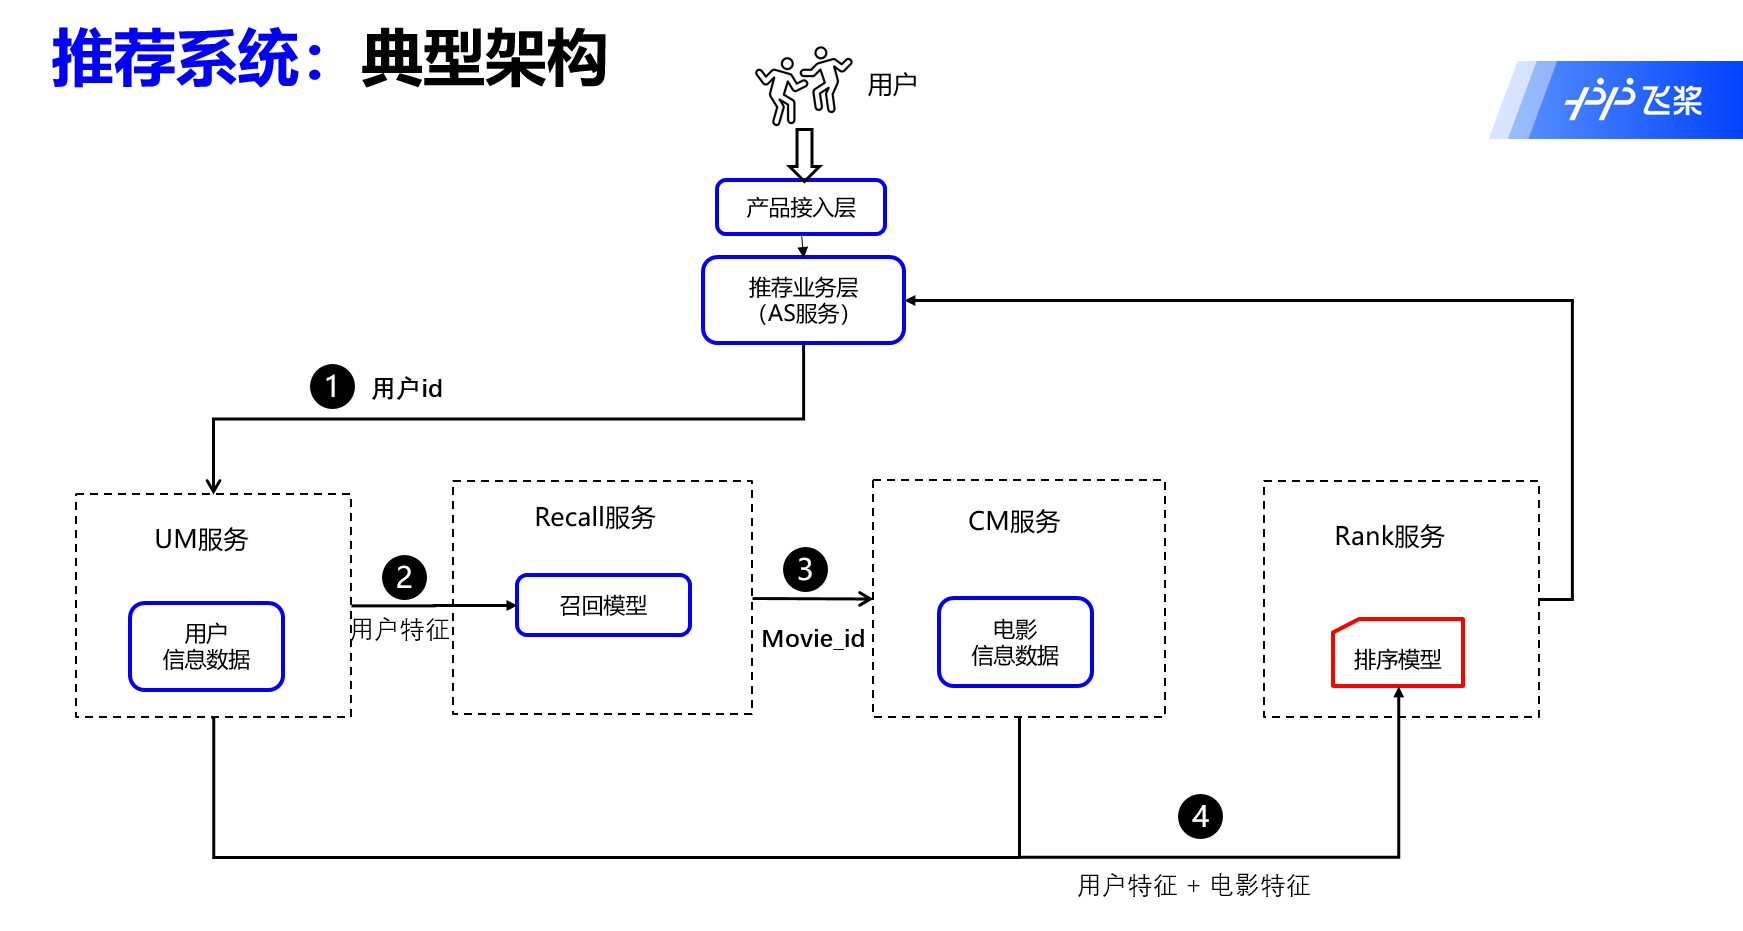
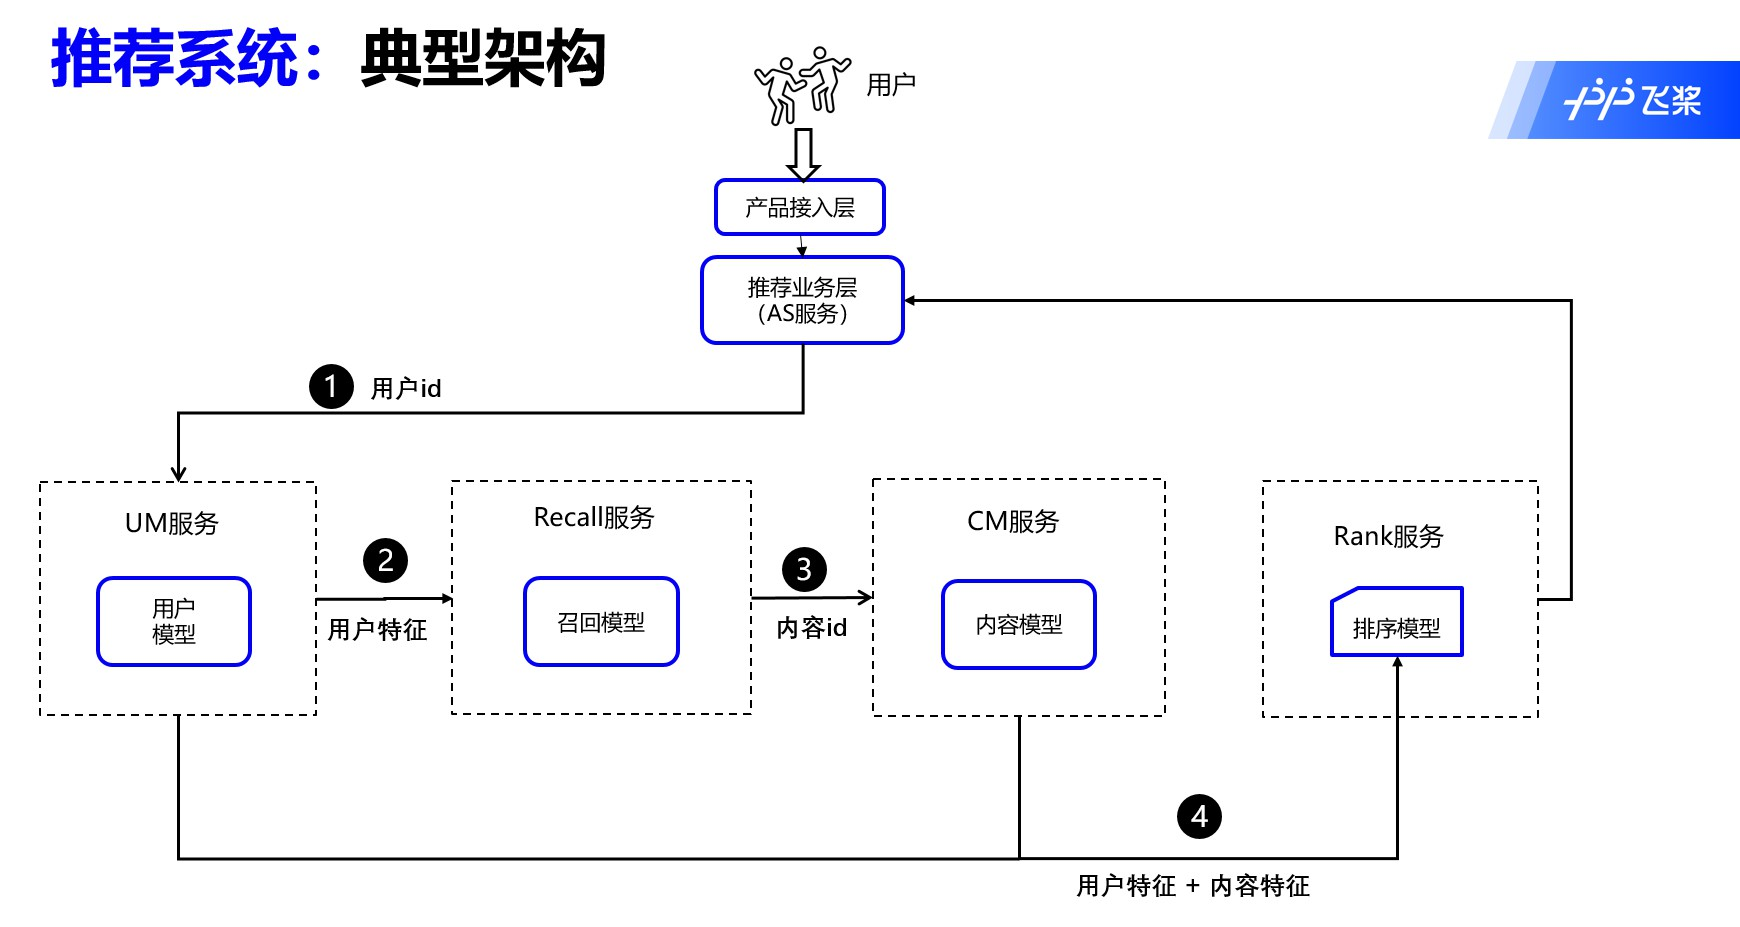
demo readme

diff --git a/tools/recserving/movie_recommender/reademe.md b/tools/recserving/movie_recommender/reademe.md
@@ -1,7 +1,7 @@
-# Demo演示
+# 推荐服务
 
 ## 简介
-本Demo基于paddlerec/models/demo/movie_recommand项目，以及AI Studio中的公开项目[《十分钟！全流程！从零搭建推荐系统》](https://aistudio.baidu.com/aistudio/projectdetail/559336)，[《PaddleRec公开教程》](https://aistudio.baidu.com/aistudio/projectdetail/1268461)。展示了使用PaddleRec搭建的一个电影推荐系统的全部流程和效果。使用者可以通过我们构建的五种服务（用户模型服务，内容模型服务，召回服务，排序服务，还有应用服务）直观的体验到一个完整的推荐系统的运作方式。我们欢迎大家直接点击上面的链接前来AI Studio上体验。
+本工具用于构建一个完整的推荐服务。以电影推荐系统为例，展示了使用PaddleRec搭建一个电影推荐系统的全部流程和效果。使用者可以通过我们构建的五种服务（用户模型服务，内容模型服务，召回服务，排序服务，还有应用服务）直观的体验到一个完整的推荐系统的运作方式。我们欢迎大家前往paddlerec/models/demo/movie_recommand项目，以及AI Studio中的公开项目[《十分钟！全流程！从零搭建推荐系统》](https://aistudio.baidu.com/aistudio/projectdetail/559336)，[《PaddleRec公开教程》](https://aistudio.baidu.com/aistudio/projectdetail/1268461)上体验。
 
 ## 目录结构
 以下是本例的简要目录结构及说明： 
@@ -20,13 +20,13 @@
 ├── proto
     ├── __init__.py
     ├── run_codegen.py #将proto转换为python格式
-    ├── as.proto #protobuf信息的数据结构表示
-    ├── cm.proto #protobuf信息的数据结构表示
-    ├── item_info.proto #protobuf信息的数据结构表示
-    ├──rank.proto #protobuf信息的数据结构表示
-    ├──recall.proto #protobuf信息的数据结构表示
-    ├──um.proto #protobuf信息的数据结构表示
-    ├──user_info.proto #protobuf信息的数据结构表示
+    ├── as.proto #应用服务中发出请求获得protobuf信息的数据结构
+    ├── cm.proto #内容模型服务中发出请求获得protobuf信息的数据结构
+    ├── item_info.proto #电影数据的数据结构表示
+    ├──rank.proto #排序服务中发出请求获得protobuf信息的数据结构
+    ├──recall.proto #召回服务中发出请求获得protobuf信息的数据结构
+    ├──um.proto #用户模型服务中发出请求获得protobuf信息的数据结构
+    ├──user_info.proto #用户数据的数据结构表示
 ```
 
 ## 运行环境
@@ -43,16 +43,56 @@ Python 版本：2.7/3.6
 <p>
 
 ### 名词解释
-本demo系统一共启动了5个在线服务，分别是用户模型服务，内容模型服务，召回服务，排序服务，还有应用服务。  
+本工具一共启动了5个在线服务，分别是用户模型服务，内容模型服务，召回服务，排序服务，还有应用服务。  
 **um**: 用户模型服务(User Model)  
 **cm**：内容模型服务(Content Model)  
 **recall**：召回服务  
 **rank**：排序服务  
 **as**：应用服务（application service）  
-用户模型和内容模型分别是数据集当中的users.dat和movies.dat数据，经过解析之后保存在redis当中，用户模型以user_id作为key，内容模型以movie_id作为key。用户模型服务和内容模型服务的逻辑分别是从redis当中按照用户传入的key来寻找对应的value并封装成protobuf结果返回。  
-召回服务目前是用离线把每个用户的召回结果计算好。  
+
+### 业务场景
+以电影推荐系统为例，讲解如何处理数据以及每个服务的实现思路
+1. 电影推荐系统使用的数据：  
+[MovieLens数据集](https://grouplens.org/datasets/movielens/)是一个关于电影评分的数据集，数据来自于IMDB等电影评分网站。该数据集中包含用户对电影的评分信息，用户的人口统计学特征以及电影的描述特征，非常适合用来入门推荐系统。MovieLens数据集包含多个子数据集，为了后面能够快速展示一个完整的训练流程，教程中我们选取了其中一个较小的子数据集[ml-1m](https://grouplens.org/datasets/movielens/1m/)，大小在1M左右。该数据集共包含了6000多位用户对近3900个电影的100多万条评分数据，评分为1～5的整数，其中每个电影的评分数据至少有20条，基本可以满足教学演示的需求。该数据集包含三个数据文件，分别是：
+- users.dat：存储用户属性信息的txt格式文件，格式为“UserID::Gender::Age::Occupation”，其中原始数据中对用户年龄和职业做了离散化处理。      
+    
+| user_id | 性别 | 年龄 | 职业 |      
+| -------- | -------- | -------- | -------- |       
+| 2181 |  男  | 25  | 自由职业 |  
+| 2182 |  女  | 25  | 学生 |          
+| 2183 |  女  | 56  | 教师 |   
+| ... |  ...  | ...  | ... |           
+
+- movies.dat：存储电影属性信息的txt格式文件，格式：“MovieID::Title::Genres”。   
+     
+| movie_id | title | 类别 |      
+| -------- | -------- | -------- |      
+| 260     |Star Wars:Episode IV(1977)| 动作，科幻  |      
+| 1270    | Three Amigos!(1986)| 喜剧  |    
+| 2763    | Thomas Crown Affair,The(1999)| 动作，惊悚 |     
+| 2858    | American Beauty(1999)| 喜剧  |     
+| ...   | ... | ... |    
+     
+- ratings.dat：存储电影评分信息的txt格式文件，格式：“UserID::MovieID::Rating::time”。  
+               
+| user_id | movie_id | 评分 | 评分时间 |   
+| ----- | -------- | -------- | -------- |      
+| 2181   | 2858    | 4分     | 974609869 | 
+| 2181   | 260    | 5分     | 974608048 |     
+| 2181   | 1270    | 5分     | 974666558 |    
+| 2182   | 3481    | 2分     | 974607734 |     
+| 2183   | 2605   | 3分     | 974608443 |       
+| 2183   | 1210    | 4分     | 974607751 |      
+| ...   | ...    | ...     |   ...     |    
+
+2. 用户模型服务和内容模型服务的实现思路  
+用户模型和内容模型分别使用了数据集当中的users.dat和movies.dat数据，我们会首先使用get_data.sh脚本获取数据集，在to_redis.py中将数据经过解析之后保存在redis当中，用户模型以user_id作为key，内容模型以movie_id作为key。用户模型服务和内容模型服务的逻辑分别是从redis当中按照用户传入的key来寻找对应的value并封装成protobuf结果返回。  
+3. 召回服务的实现思路  
+召回服务使用离线计算把每个用户的召回结果计算好，我们会首先使用get_data.sh脚本下载计算好的结果，再将结果灌入redis中。最后在使用召回服务时，从redis当中按照传入的用户id来寻找对应的评分结果并封装成protobuf返回。但是由于数据量过大，如果将全部用户的召回数据加载入redis中，需要花费很长时间。因此我们只加载了user_id为1-13的用户的召回结果，方便大家快速体验。  
+4. 排序服务的实现思路
 排序服务是用PaddleRec训练好的CTR模型，用Paddle Serving启动来提供预测服务能力，用户传入一个用户信息和一组内容信息，接下来就能经过特征抽取和排序计算，求得最终的打分，按从高到低排序返回给用户。  
-应用服务就是以上流程的串联，设计的流程是用户传入自己的user id，查找到对应的用户模型，再从召回服务中得到召回movie列表，接下来查询到所有的内容模型信息，最终两个结合在排序服务中得到所有候选电影的从高到低的打分，最终还原成原始的电影信息返回给用户。  
+5. 应用服务的实现思路
+应用服务就是以上流程的串联，设计的流程是用户传入自己的user id，查找到对应的用户模型，再从召回服务中得到召回movie列表，接下来查询内容模型得到列表中所有电影的信息，最终两个结合在排序服务中得到所有候选电影的从高到低的打分，最终还原成原始的电影信息返回给用户。  
 
 ### 支持的输入范围
 目前支持的输入为：  
